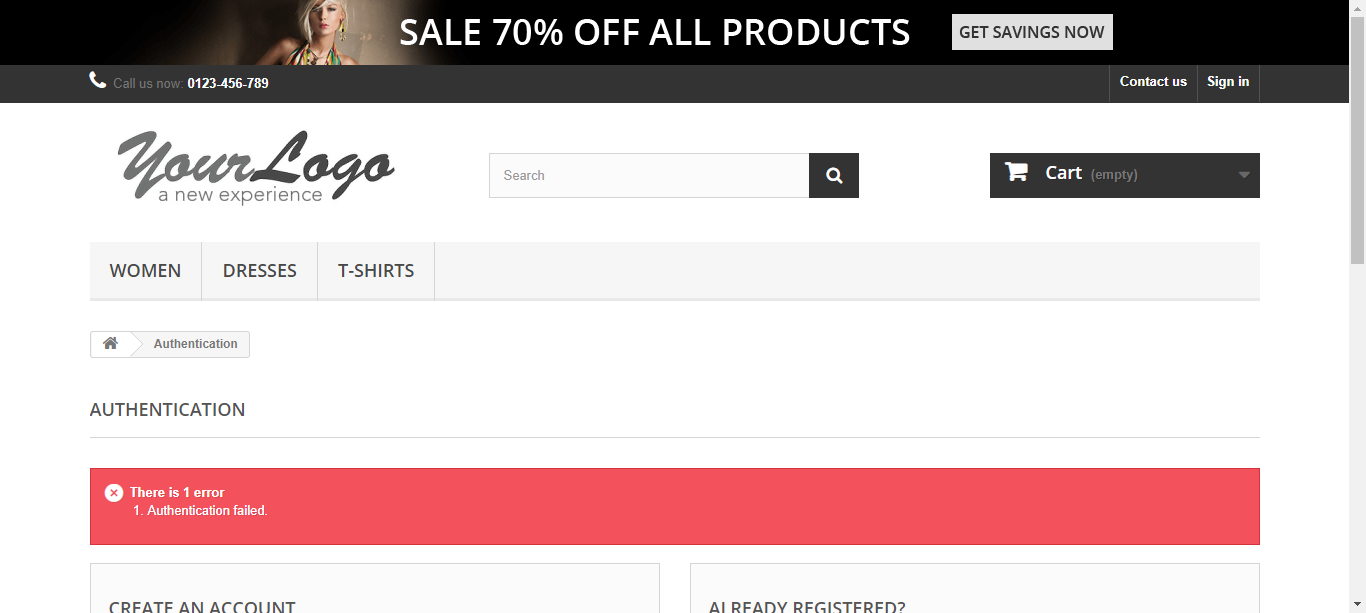
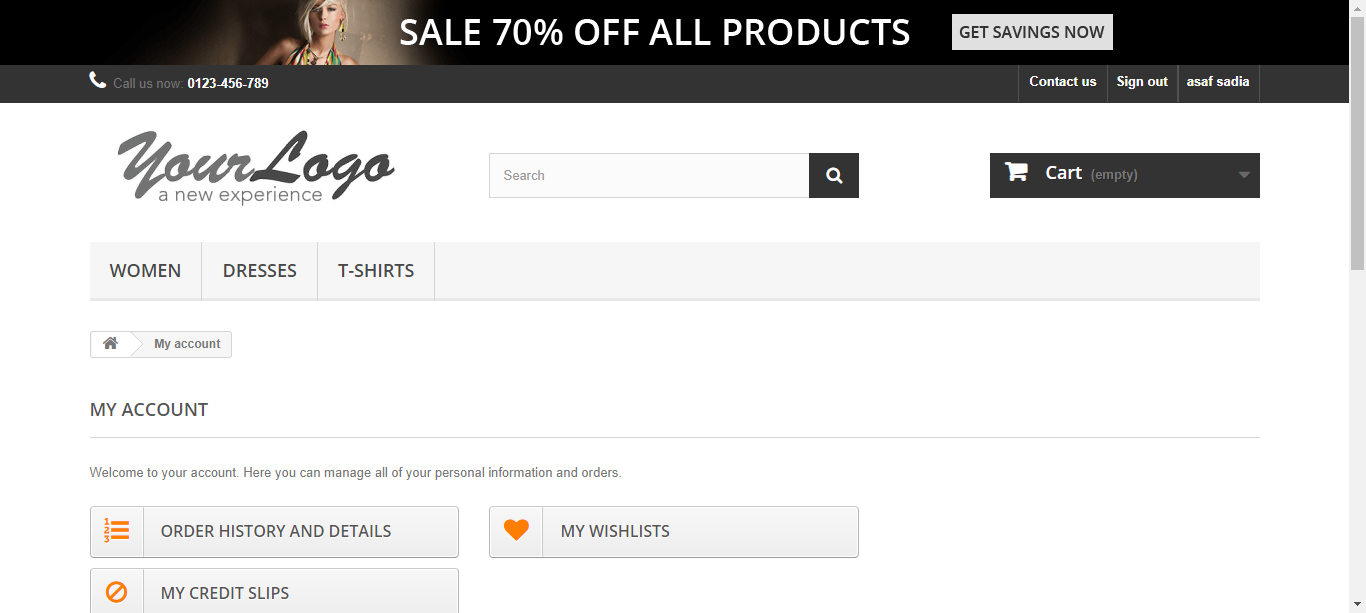
Login Fix

diff --git a/src/test/java/tests/LoginTest.java b/src/test/java/tests/LoginTest.java
@@ -29,7 +29,7 @@ public class LoginTest extends BaseTest {
 
 		MyAccountPage map = new MyAccountPage(driver); // Validation
 		String actual = map.getTitle();
-		String expected = "AUTHENTICATION";
+		String expected = "MY ACCOUNT";
 		// Validation
 		Assert.assertEquals(actual, expected);
 		System.out.println(actual);
@@ -73,10 +73,10 @@ public class LoginTest extends BaseTest {
 		maep.forgotYourPasswordBtn(); // click on forgot your password link
 
 		ForgotYourPasswordPage fypp = new ForgotYourPasswordPage(driver); // enter email
-		fypp.forgotYourPassword(" asafsadia400@gmail.com");
+		fypp.forgotYourPassword("asaf720@gmail.com");
 
 		String actual = fypp.geterrorMessageForGotPassword(); // Validation
-		String expected = "A confirmation email has been sent to your address: asafsadia400@gmail.com";
+		String expected = "A confirmation email has been sent to your address: asaf720@gmail.com";
 		// Validation
 		Assert.assertEquals(actual, expected);
 		System.out.println("error message: " + actual);
